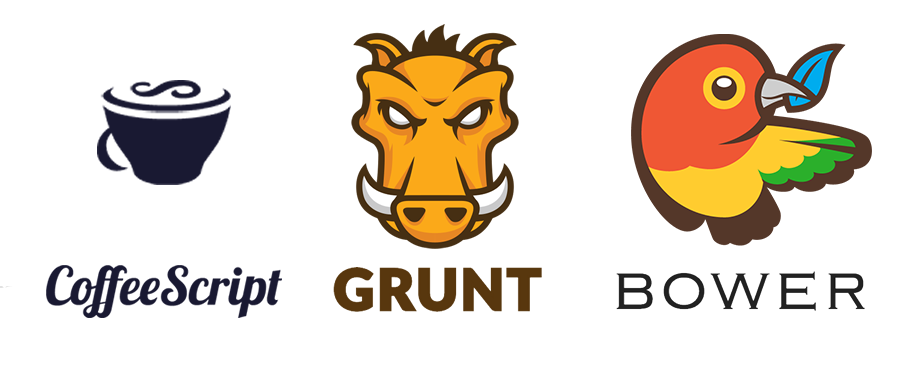
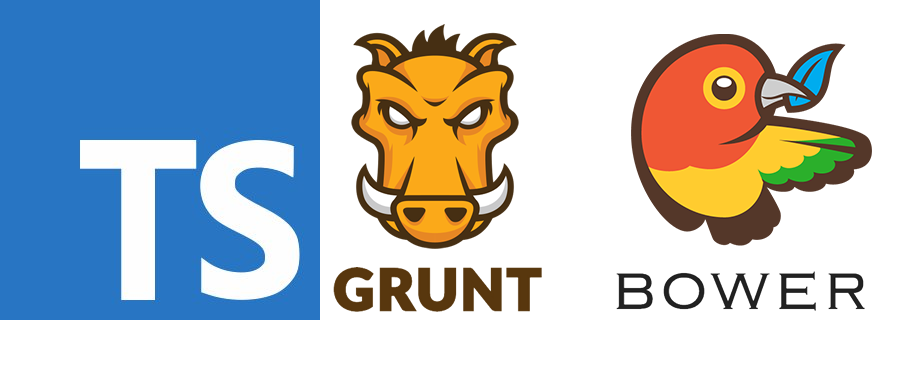
Fixed presentation to Angular2

Changed region(s): [[0.0, 0.0, 0.3652, 0.8622]]

diff --git a/00-presentations/01-what-is-angular2/partials/10_controllers.html b/00-presentations/01-what-is-angular2/partials/10_controllers.html
@@ -1,4 +1,4 @@
 <div class="slide centered-title-slide">
 	<h1>Controllers</h1>
-	<h2>Controllers define <strong>$scope</strong> variables, methods and all the logic inside a view. Each view should have a single controller. For the most part, controllers should not be shared.</h2>
+	<h2>We don't really have controllers in Angular2. Components are a mixture between the Controller and the View. The logic will be held in the "Controller" functions within a class, and attach the view via templating.</h2>
 </div> 

diff --git a/00-presentations/01-what-is-angular2/partials/04_features.html b/00-presentations/01-what-is-angular2/partials/04_features.html
@@ -1,12 +1,12 @@
 <div class="slide centered-title-slide">
-	<h1>Features</h1>
-	<h2>MVC<br/> 
-  AJAX services<br/>
+  <h1>Features</h1>
+	<h2>
+  TypeScript, JS or Dart <br/>
+  Services<br/>
+  Components<br/>
   Dependency Injection<br/>
-  Browser history<br/>
-  Augments HTML<br/>
-  Encapsulation<br/>
-  Small in size<br/>
+  Controllers<br/>
+  Views<br/>
   OpenSource<br/>
   </h2>
 </div> 

diff --git a/00-presentations/01-what-is-angular2/index.html b/00-presentations/01-what-is-angular2/index.html
@@ -4,7 +4,7 @@
 <head id="www-sitename-com" data-template-set="html5-reset">
 
 	<meta charset="utf-8">
-	<title>Angular.js : Advanced Design Patterns and Best Practices</title>
+	<title>Angular2 Description</title>
 	
 	<meta name="description" content="">
 	<meta name="viewport" content="width=device-width, maximum-scale=.5">

diff --git a/00-presentations/01-what-is-angular2/partials/07_mvc.html b/00-presentations/01-what-is-angular2/partials/07_mvc.html
@@ -1,4 +1,4 @@
 <div class="slide centered-title-slide">
-  <h1>MVC Framework</h1>
+  <h1>MV Framework</h1>
   <h2>AngularJS is also a Movel-View-Controller Framework, although sometimes it is refered to as MVVM.</h2>
 </div> 
